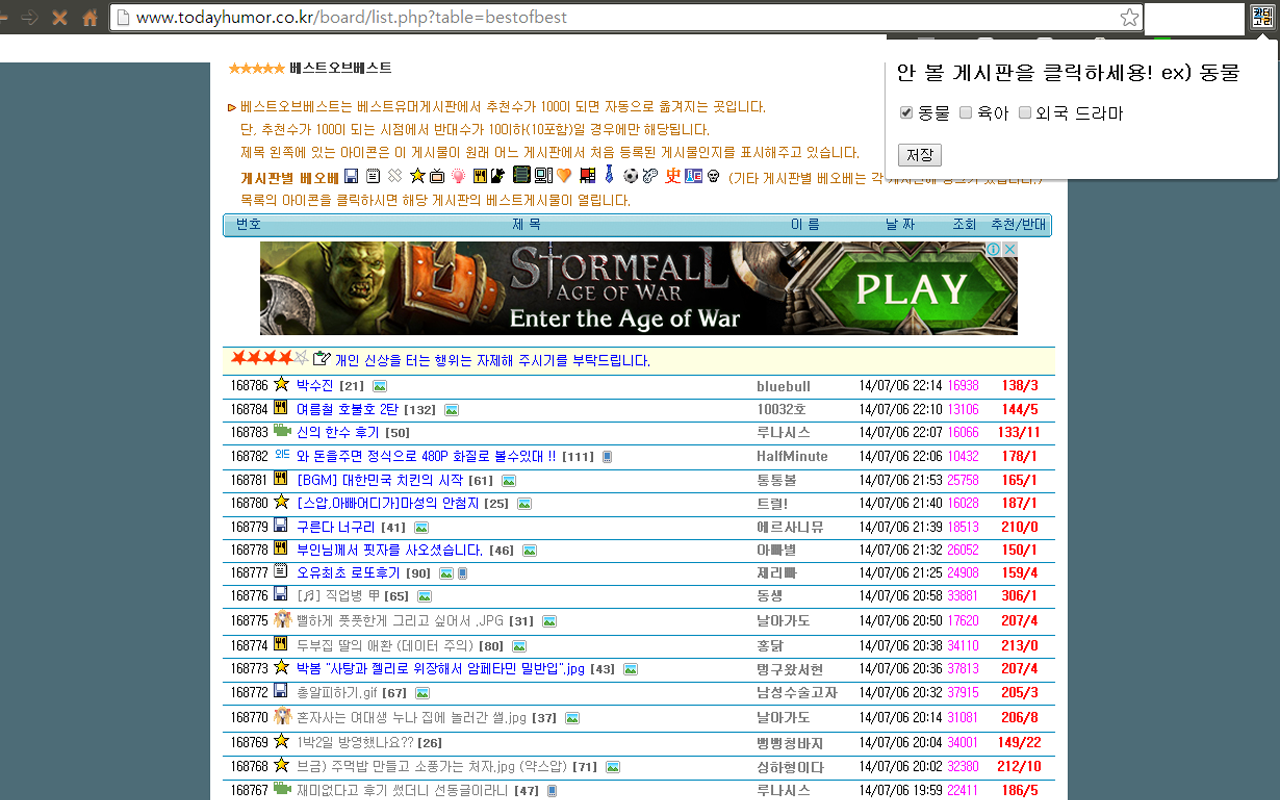
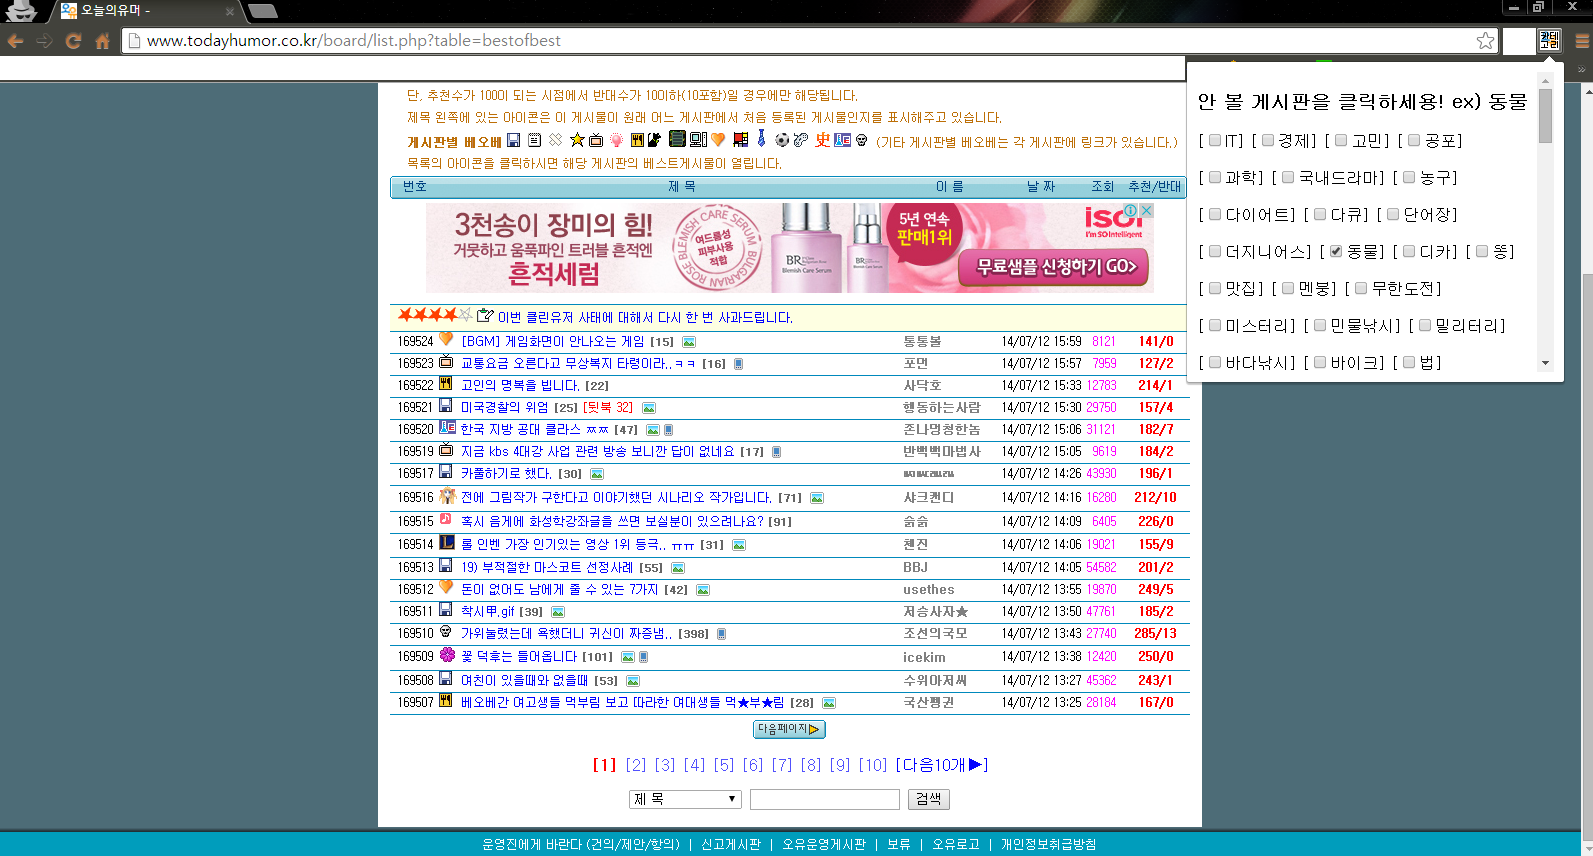
added All board. (change load method hard coding to load json data dynamic)

diff --git a/app/js/data.js b/app/js/data.js
@@ -1,8 +1,105 @@
 var categoryInitListJSONArray = [
+  {"en" : "it", "kr" : "IT", "value" : "0"},
+  {"en" : "economy", "kr" : "경제", "value" : "0"},
+  {"en" : "gomin", "kr" : "고민", "value" : "0"},
+  {"en" : "panic", "kr" : "공포", "value" : "0"},
+  {"en" : "science", "kr" : "과학", "value" : "0"},
+  {"en" : "drama", "kr" : "국내드라마", "value" : "0"},
+  {"en" : "basketball", "kr" : "농구", "value" : "0"},
+  {"en" : "diet", "kr" : "다이어트", "value" : "0"},
+  {"en" : "docu", "kr" : "다큐", "value" : "0"},
+  {"en" : "voca", "kr" : "단어장", "value" : "0"},
+  {"en" : "thegenius", "kr" : "더지니어스", "value" : "0"},
   {"en" : "animal", "kr" : "동물", "value" : "0"},
+  {"en" : "deca", "kr" : "디카", "value" : "0"},
+  {"en" : "poop", "kr" : "똥", "value" : "0"},
+  {"en" : "matzip", "kr" : "맛집", "value" : "0"},
+  {"en" : "menbung", "kr" : "멘붕", "value" : "0"},
+  {"en" : "muhan", "kr" : "무한도전", "value" : "0"},
+  {"en" : "mystery", "kr" : "미스터리", "value" : "0"},
+  {"en" : "rivfishing", "kr" : "민물낚시", "value" : "0"},
+  {"en" : "military", "kr" : "밀리터리", "value" : "0"},
+  {"en" : "seafishing", "kr" : "바다낚시", "value" : "0"},
+  {"en" : "motorcycle", "kr" : "바이크", "value" : "0"},
+  {"en" : "law", "kr" : "법", "value" : "0"},
+  {"en" : "wc2014", "kr" : "브라질월드컵2014", "value" : "0"},
+  {"en" : "accident", "kr" : "사건사고", "value" : "0"},
+  {"en" : "sewol", "kr" : "세월호", "value" : "0"},
+  {"en" : "smartphone", "kr" : "스마트폰", "value" : "0"},
+  {"en" : "sports", "kr" : "스포츠", "value" : "0"},
+  {"en" : "sisa", "kr" : "시사", "value" : "0"},
+  {"en" : "plant", "kr" : "식물", "value" : "0"},
+  {"en" : "iphone", "kr" : "아이폰", "value" : "0"},
+  {"en" : "android", "kr" : "안드로이드", "value" : "0"},
+  {"en" : "antivirus", "kr" : "안티바이러스", "value" : "0"},
+  {"en" : "animation", "kr" : "애니메이션", "value" : "0"},
+  {"en" : "baseball", "kr" : "야구", "value" : "0"},
+  {"en" : "travel", "kr" : "여행", "value" : "0"},
+  {"en" : "history", "kr" : "역사", "value" : "0"},
+  {"en" : "star", "kr" : "연예", "value" : "0"},
+  {"en" : "english", "kr" : "영어", "value" : "0"},
+  {"en" : "movie", "kr" : "영화", "value" : "0"},
+  {"en" : "art", "kr" : "예술", "value" : "0"},
+  {"en" : "today", "kr" : "오늘있잖아요", "value" : "0"},
+  {"en" : "oekaki", "kr" : "오유그림판", "value" : "0"},
+  {"en" : "ouradio", "kr" : "오유라디오", "value" : "0"},
+  {"en" : "mid", "kr" : "외국드라마", "value" : "0"},
+  {"en" : "cook", "kr" : "요리", "value" : "0"},
+  {"en" : "humorstory", "kr" : "유머글", "value" : "0"},
+  {"en" : "humordata", "kr" : "유머자료", "value" : "0"},
   {"en" : "baby", "kr" : "육아", "value" : "0"},
-  {"en" : "mid", "kr" : "외국 드라마", "value" : "0"},
-  {"en" : "lol", "kr" : "게임 - 롤", "value" : "0"},
-  {"en" : "animation", "kr" : "애니", "value" : "0"},
-  {"en" : "gomin", "kr" : "고민", "value" : "0"}
+  {"en" : "music", "kr" : "음악", "value" : "0"},
+  {"en" : "findmusic", "kr" : "음악찾기", "value" : "0"},
+  {"en" : "medical", "kr" : "의료", "value" : "0"},
+  {"en" : "interior", "kr" : "인테리어", "value" : "0"},
+  {"en" : "car", "kr" : "자동차", "value" : "0"},
+  {"en" : "boast", "kr" : "자랑", "value" : "0"},
+  {"en" : "databox", "kr" : "자료창고", "value" : "0"},
+  {"en" : "freeboard", "kr" : "자유", "value" : "0"},
+  {"en" : "bicycle2", "kr" : "자전거", "value" : "0"},
+  {"en" : "toy", "kr" : "장난감", "value" : "0"},
+  {"en" : "religion", "kr" : "종교", "value" : "0"},
+  {"en" : "lovestory", "kr" : "좋은글", "value" : "0"},
+  {"en" : "jisik", "kr" : "지식인", "value" : "0"},
+  {"en" : "jjal", "kr" : "짤방", "value" : "0"},
+  {"en" : "readers", "kr" : "책", "value" : "0"},
+  {"en" : "phil", "kr" : "철학", "value" : "0"},
+  {"en" : "soccer", "kr" : "축구", "value" : "0"},
+  {"en" : "computer", "kr" : "컴퓨터", "value" : "0"},
+  {"en" : "podcast", "kr" : "팟캐스트", "value" : "0"},
+  {"en" : "fashion", "kr" : "패션", "value" : "0"},
+  {"en" : "pony", "kr" : "포니", "value" : "0"},
+  {"en" : "programmer", "kr" : "프로그래머", "value" : "0"},
+  {"en" : "soju", "kr" : "한잔했어요", "value" : "0"},
+  {"en" : "overseabuy", "kr" : "해외직구", "value" : "0"},
+  {"en" : "fukushima", "kr" : "후쿠시마", "value" : "0"},
+  {"en" : "gta5", "kr" : "게임-GTA5", "value" : "0"},
+  {"en" : "dungeon", "kr" : "게임-던전앤파이터", "value" : "0"},
+  {"en" : "diablo2", "kr" : "게임-디아블로2", "value" : "0"},
+  {"en" : "diablo3", "kr" : "게임-디아블로3", "value" : "0"},
+  {"en" : "lol", "kr" : "게임-리그오브레전드", "value" : "0"},
+  {"en" : "mabinogi", "kr" : "게임-마비노기", "value" : "0"},
+  {"en" : "mabi", "kr" : "게임-마비노기영웅전", "value" : "0"},
+  {"en" : "mincraft", "kr" : "게임-마인크래프트", "value" : "0"},
+  {"en" : "civil", "kr" : "게임-문명", "value" : "0"},
+  {"en" : "bf3", "kr" : "게임-배틀필드", "value" : "0"},
+  {"en" : "bns", "kr" : "게임-블레이드앤소울", "value" : "0"},
+  {"en" : "cyphers", "kr" : "게임-사이퍼즈", "value" : "0"},
+  {"en" : "suddenattack", "kr" : "게임-서든어택", "value" : "0"},
+  {"en" : "starcraft", "kr" : "게임-스타크래프트", "value" : "0"},
+  {"en" : "starcraft2", "kr" : "게임-스타크래프트2", "value" : "0"},
+  {"en" : "simcity5", "kr" : "게임-심시티5", "value" : "0"},
+  {"en" : "wow", "kr" : "게임-와우", "value" : "0"},
+  {"en" : "warcraft", "kr" : "게임-워크래프트", "value" : "0"},
+  {"en" : "wtank", "kr" : "게임-월드오브탱크", "value" : "0"},
+  {"en" : "gametalk", "kr" : "게임토론방", "value" : "0"},
+  {"en" : "fifa3", "kr" : "게임-피파온라인3", "value" : "0"},
+  {"en" : "hstone", "kr" : "게임-하스스톤", "value" : "0"},
+  {"en" : "actozma", "kr" : "게임-확산성밀리언아서", "value" : "0"},
+  {"en" : "nintendo", "kr" : "닌텐도", "value" : "0"},
+  {"en" : "mobilegame", "kr" : "모바일게임", "value" : "0"},
+  {"en" : "xbox", "kr" : "엑스박스", "value" : "0"},
+  {"en" : "gameroom", "kr" : "플래시게임", "value" : "0"},
+  {"en" : "ps", "kr" : "플레이스테이션", "value" : "0"}  
+//{"en" : "", "kr" : "", "value" : "0"},
 ]

diff --git a/app/js/popup.js b/app/js/popup.js
@@ -19,7 +19,7 @@ function initPopup(){
 function dynamicAddCheckBox(){
   categoryBox = document.getElementById("categoryBox");
   for(var i=0; i < categoryJSONArray.length; i++)
-    categoryBox.innerHTML += '[<input type="checkbox" name='+categoryJSONArray[i].en+'>'+categoryJSONArray[i].kr+'</option>]  ';
+    categoryBox.innerHTML += '<div style="float:left; display:inline;">[<input type="checkbox" name='+categoryJSONArray[i].en+'>'+categoryJSONArray[i].kr+'</option>] <br><br></div>';
 }
 
 function setCategoryBox(){
@@ -47,6 +47,16 @@ function getCategoryBox(){
 function saveOptions(){
   getCategoryBox();
   localStorage["category_list"] = JSON.stringify(categoryJSONArray);
+  layerSaveMessage = document.getElementById("layer_save_message");
+  layerSaveMessage.style.display = "inline";  
+}
+
+function tweakWidthForScrollbar() {
+  var db = document.body;
+  var scrollBarWidth = db.scrollHeight > db.clientHeight ?
+      db.clientWidth - db.offsetWidth : 0;
+  db.style.paddingRight = scrollBarWidth + "px";
 }
 
 document.addEventListener('DOMContentLoaded', initPopup, false);
+document.addEventListener('onresize', tweakWidthForScrollbar, false);

diff --git a/app/popup.html b/app/popup.html
@@ -1,12 +1,12 @@
 <!doctype html>
-<html>
+<html style="height:300px; overflow-y:scroll;">
   <head>
   <meta http-equiv="Content-Type" content="text/html; charset=UTF-8">
     <title>오유 카테고리 숨기기</title>
     <style>
       body {
         min-width: 357px;
-        overflow-x: hidden;
+        height:300px; overflow-y:scroll;
       }
 
       img {
@@ -29,12 +29,13 @@
     <script src="js/popup.js"></script>
   </head>
   <body>
+    <div id="layer_save_message" style="position: absolute; overflow: hidden; -webkit-box-shadow: rgb(153, 153, 153) 0px 0px 25px; right: 25px; bottom: 10px; border: 1px solid rgb(0, 0, 0); padding: 5px; display: none;background-color: rgb(255, 255, 225);">
+          <font style="font-size:13px; margin-left: 0px; font-size:12px;">저장이 되었습니다.</font>
+    </div>
     <h3>안 볼 게시판을 클릭하세용! ex) 동물</h3>
-    <form id="categoryBox" style="overflow-x:hidden; overflow-y:scroll">
-
+    <form id="categoryBox" style="float:left; display:inline;">
     </form>
     <br>
     <button id="saveButton">저장</button>
-    <br>
   </body>
 </html>
